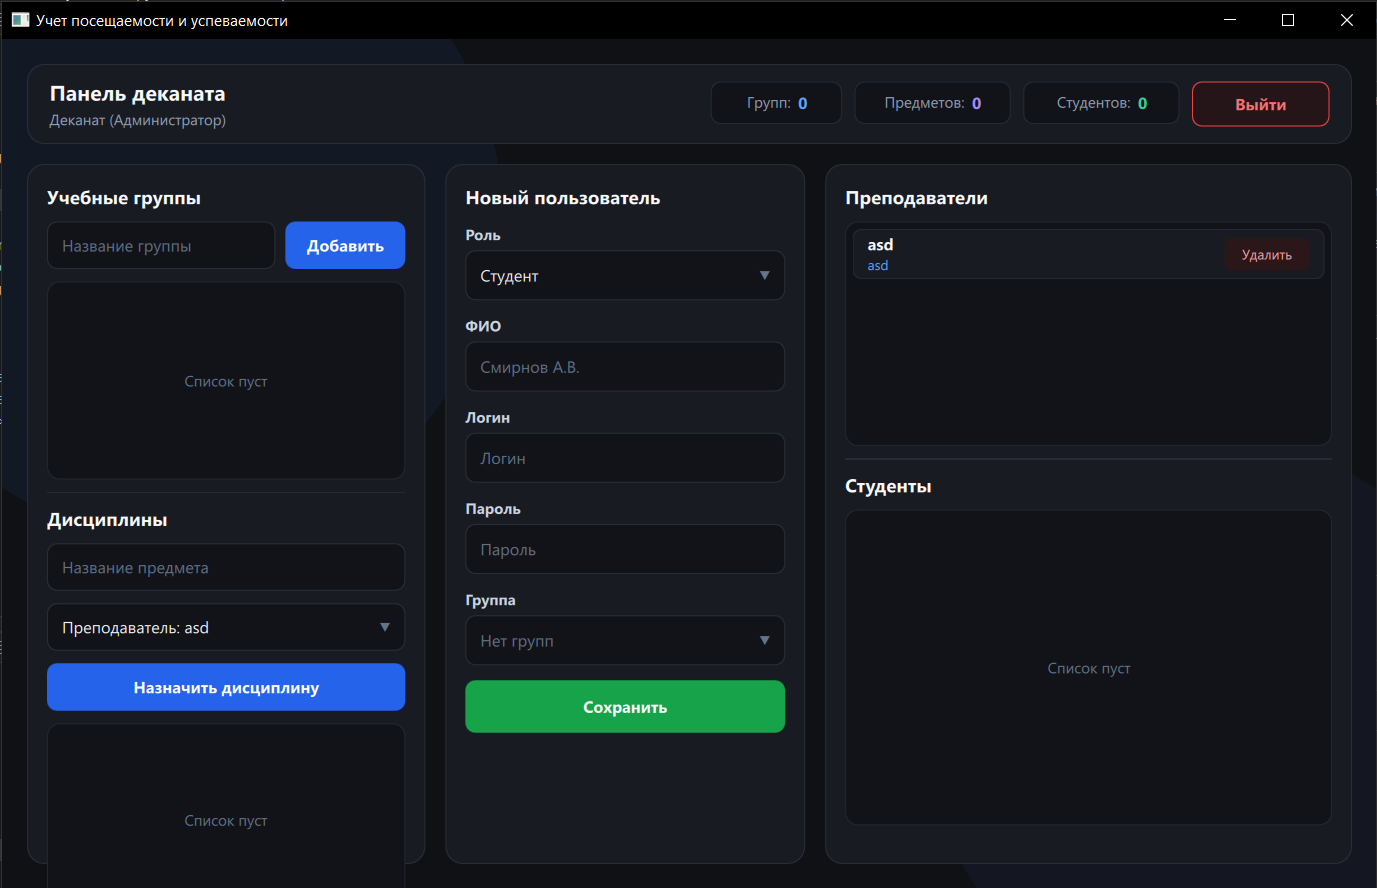
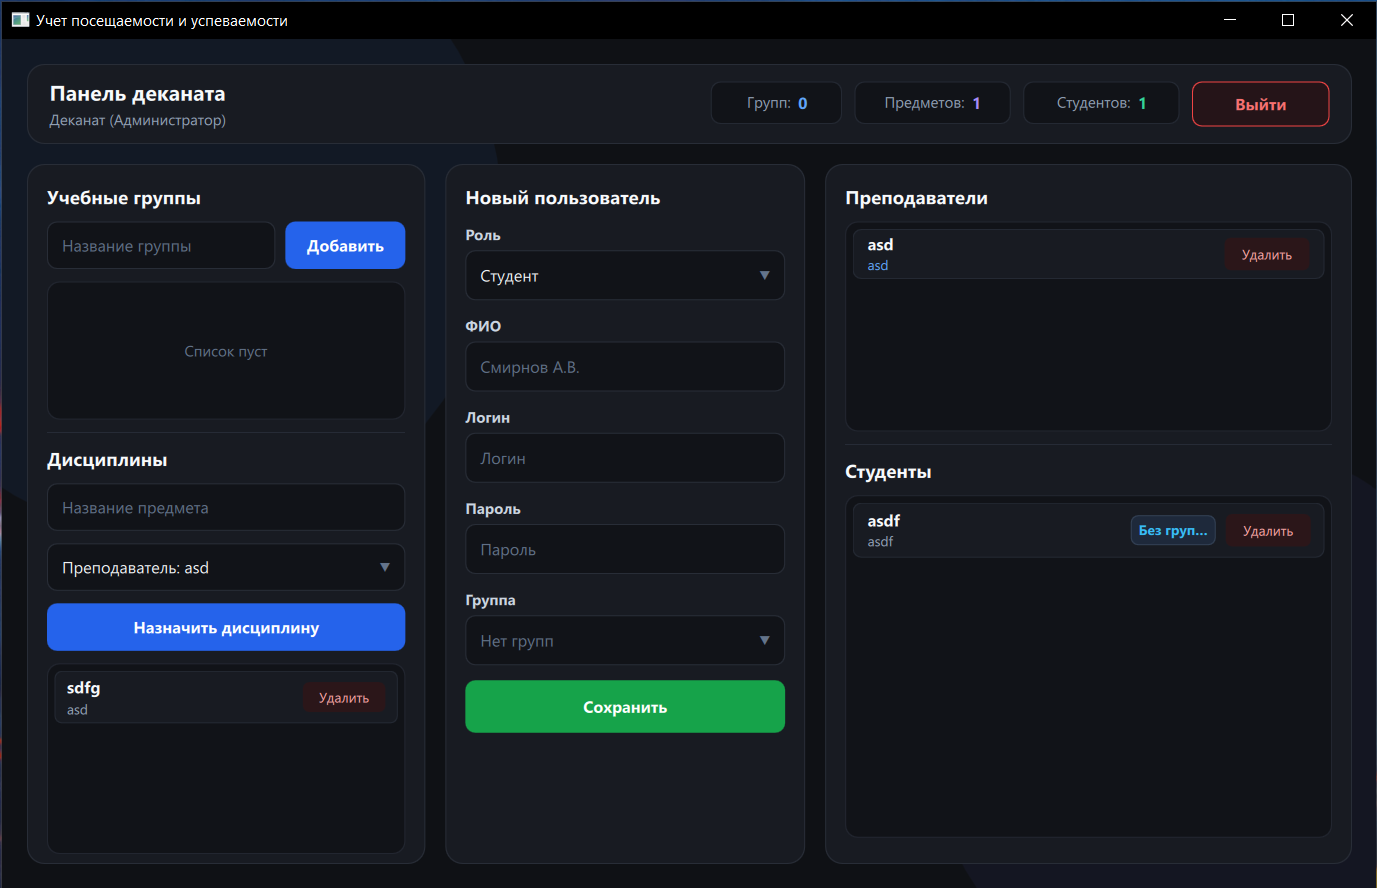
bugfix

diff --git a/TeacherDashboard.qml b/TeacherDashboard.qml
@@ -7,9 +7,13 @@ Rectangle {
 
     property int selectedRecordId: -1
     property string boundStudentName: "Не выбрано"
-    property string boundDate: Qt.formatDate(new Date(), "yyyy-MM-dd")
+    property string boundDate: Qt.formatDate(new Date(), "dd.MM.yyyy")
     property string boundAttendance: "Присутствовал"
     property string boundGrade: ""
+
+    property int calYear: new Date().getFullYear()
+    property int calMonth: new Date().getMonth()
+    property var monthNames: ["Январь", "Февраль", "Март", "Апрель", "Май", "Июнь", "Июль", "Август", "Сентябрь", "Октябрь", "Ноябрь", "Декабрь"]
 
     Rectangle {
         width: 520; height: 520; radius: 260
@@ -103,13 +107,19 @@ Rectangle {
                         color: "#111318"; radius: 8; border.color: "#242933"
 
                         Row {
-                            anchors.fill: parent; anchors.leftMargin: 14; anchors.rightMargin: 14; spacing: 8
-                            Text { text: "Студент"; color: "#94a3b8"; font.pixelSize: 12; font.bold: true; width: parent.width * 0.27; anchors.verticalCenter: parent.verticalCenter }
-                            Text { text: "Группа"; color: "#94a3b8"; font.pixelSize: 12; font.bold: true; width: parent.width * 0.13; anchors.verticalCenter: parent.verticalCenter }
-                            Text { text: "Дисциплина"; color: "#94a3b8"; font.pixelSize: 12; font.bold: true; width: parent.width * 0.23; anchors.verticalCenter: parent.verticalCenter }
-                            Text { text: "Дата"; color: "#94a3b8"; font.pixelSize: 12; font.bold: true; width: parent.width * 0.13; anchors.verticalCenter: parent.verticalCenter }
-                            Text { text: "Посещаемость"; color: "#94a3b8"; font.pixelSize: 12; font.bold: true; width: parent.width * 0.14; anchors.verticalCenter: parent.verticalCenter }
-                            Text { text: "Оценка"; color: "#94a3b8"; font.pixelSize: 12; font.bold: true; width: parent.width * 0.08; horizontalAlignment: Text.AlignHCenter; anchors.verticalCenter: parent.verticalCenter }
+                            id: headerRow
+                            anchors.fill: parent
+                            anchors.leftMargin: 12
+                            anchors.rightMargin: 12
+                            spacing: 6
+                            property real availW: width - 30
+
+                            Text { text: "Студент"; color: "#94a3b8"; font.pixelSize: 12; font.bold: true; width: headerRow.availW * 0.25; anchors.verticalCenter: parent.verticalCenter }
+                            Text { text: "Группа"; color: "#94a3b8"; font.pixelSize: 12; font.bold: true; width: headerRow.availW * 0.13; anchors.verticalCenter: parent.verticalCenter }
+                            Text { text: "Дисциплина"; color: "#94a3b8"; font.pixelSize: 12; font.bold: true; width: headerRow.availW * 0.22; anchors.verticalCenter: parent.verticalCenter }
+                            Text { text: "Дата"; color: "#94a3b8"; font.pixelSize: 12; font.bold: true; width: headerRow.availW * 0.14; anchors.verticalCenter: parent.verticalCenter }
+                            Text { text: "Статус"; color: "#94a3b8"; font.pixelSize: 12; font.bold: true; width: headerRow.availW * 0.15; anchors.verticalCenter: parent.verticalCenter }
+                            Text { text: "Оценка"; color: "#94a3b8"; font.pixelSize: 12; font.bold: true; width: headerRow.availW * 0.11; horizontalAlignment: Text.AlignHCenter; anchors.verticalCenter: parent.verticalCenter }
                         }
                     }
 
@@ -139,19 +149,24 @@ Rectangle {
                                 border.width: isSelected ? 1.5 : 1
 
                                 Row {
-                                    anchors.fill: parent; anchors.leftMargin: 14; anchors.rightMargin: 14; spacing: 8
+                                    id: itemRow
+                                    anchors.fill: parent
+                                    anchors.leftMargin: 12
+                                    anchors.rightMargin: 12
+                                    spacing: 6
+                                    property real availW: width - 30
 
                                     Text {
                                         text: model.student_name || ""
                                         color: "#f8fafc"; font.pixelSize: 13; font.bold: rowDelegate.isSelected
-                                        width: parent.width * 0.27; elide: Text.ElideRight
+                                        width: itemRow.availW * 0.25; elide: Text.ElideRight
                                         anchors.verticalCenter: parent.verticalCenter
                                     }
 
                                     Item {
-                                        width: parent.width * 0.13; height: parent.height
+                                        width: itemRow.availW * 0.13; height: parent.height
                                         Rectangle {
-                                            height: 24; width: Math.min(parent.width - 4, groupText.implicitWidth + 14); radius: 6
+                                            height: 24; width: Math.min(parent.width, groupText.implicitWidth + 12); radius: 6
                                             anchors.verticalCenter: parent.verticalCenter
                                             color: "#1e293b"; border.color: "#334155"
                                             Text { id: groupText; anchors.centerIn: parent; text: model.group_name || "—"; color: "#38bdf8"; font.pixelSize: 11; font.bold: true }
@@ -161,21 +176,21 @@ Rectangle {
                                     Text {
                                         text: model.subject_title || ""
                                         color: "#cbd5e1"; font.pixelSize: 12
-                                        width: parent.width * 0.23; elide: Text.ElideRight
+                                        width: itemRow.availW * 0.22; elide: Text.ElideRight
                                         anchors.verticalCenter: parent.verticalCenter
                                     }
 
                                     Text {
                                         text: model.lesson_date || ""
                                         color: "#94a3b8"; font.pixelSize: 12
-                                        width: parent.width * 0.13
+                                        width: itemRow.availW * 0.14
                                         anchors.verticalCenter: parent.verticalCenter
                                     }
 
                                     Item {
-                                        width: parent.width * 0.14; height: parent.height
+                                        width: itemRow.availW * 0.15; height: parent.height
                                         Rectangle {
-                                            height: 24; width: parent.width - 4; radius: 6
+                                            height: 24; width: parent.width; radius: 6
                                             anchors.verticalCenter: parent.verticalCenter
                                             color: model.attendance === "Присутствовал" ? "#1422c55e" : (model.attendance === "Прогул" ? "#14ef4444" : "#14eab308")
                                             border.color: model.attendance === "Присутствовал" ? "#22c55e" : (model.attendance === "Прогул" ? "#ef4444" : "#eab308")
@@ -188,7 +203,7 @@ Rectangle {
                                     }
 
                                     Item {
-                                        width: parent.width * 0.08; height: parent.height
+                                        width: itemRow.availW * 0.11; height: parent.height
                                         Rectangle {
                                             width: 28; height: 28; radius: 6; anchors.centerIn: parent
                                             property string g: model.grade || ""
@@ -317,20 +332,44 @@ Rectangle {
                         width: parent.width; spacing: 10
 
                         Column {
-                            width: (parent.width - 10) * 0.48; spacing: 4
-                            Text { text: "Дата"; color: "#cbd5e1"; font.pixelSize: 12; font.bold: true }
-                            TextField {
-                                id: dateField
-                                width: parent.width; height: 38
-                                text: boundDate; placeholderText: "ГГГГ-ММ-ДД"
-                                color: "#f8fafc"; placeholderTextColor: "#64748b"; font.pixelSize: 13
-                                leftPadding: 12; rightPadding: 12; selectByMouse: true
-                                background: Rectangle { color: "#111318"; radius: 8; border.color: dateField.activeFocus ? "#3b82f6" : "#282d37" }
+                            width: (parent.width - 10) * 0.50; spacing: 4
+                            Text { text: "Дата (дд.мм.гггг)"; color: "#cbd5e1"; font.pixelSize: 12; font.bold: true }
+
+                            Row {
+                                width: parent.width
+                                spacing: 6
+
+                                TextField {
+                                    id: dateField
+                                    width: parent.width - 42; height: 38
+                                    text: boundDate; placeholderText: "дд.мм.гггг"
+                                    color: "#f8fafc"; placeholderTextColor: "#64748b"; font.pixelSize: 13
+                                    leftPadding: 10; rightPadding: 10; selectByMouse: true
+                                    background: Rectangle { color: "#111318"; radius: 8; border.color: dateField.activeFocus ? "#3b82f6" : "#282d37" }
+                                }
+
+                                Button {
+                                    id: calBtn
+                                    width: 36; height: 38
+                                    hoverEnabled: true
+                                    text: "Календарь"
+                                    background: Rectangle {
+                                        radius: 8
+                                        color: calPopup.visible ? "#2563eb" : (calBtn.hovered ? "#1e293b" : "#111318")
+                                        border.color: calPopup.visible ? "#3b82f6" : "#282d37"
+                                    }
+                                    contentItem: Text {
+                                        text: "▼"
+                                        color: "#f8fafc"; font.pixelSize: 11; font.bold: true
+                                        horizontalAlignment: Text.AlignHCenter; verticalAlignment: Text.AlignVCenter
+                                    }
+                                    onClicked: calPopup.open()
+                                }
                             }
                         }
 
                         Column {
-                            width: (parent.width - 10) * 0.52; spacing: 4
+                            width: (parent.width - 10) * 0.50; spacing: 4
                             Text { text: "Посещаемость"; color: "#cbd5e1"; font.pixelSize: 12; font.bold: true }
 
                             ComboBox {
@@ -460,6 +499,145 @@ Rectangle {
                             selectedRecordId = -1;
                             boundStudentName = "Не выбрано";
                             gradeField.text = "";
+                        }
+                    }
+                }
+            }
+        }
+    }
+
+    Popup {
+        id: calPopup
+        width: 260
+        height: 280
+        modal: true
+        focus: true
+        anchors.centerIn: Overlay.overlay
+        padding: 12
+
+        background: Rectangle {
+            color: "#181b22"
+            radius: 12
+            border.color: "#3b82f6"
+            border.width: 1.5
+        }
+
+        Column {
+            anchors.fill: parent
+            spacing: 8
+
+            Row {
+                width: parent.width
+                height: 32
+
+                Button {
+                    id: prevMonthBtn
+                    width: 32; height: 32
+                    hoverEnabled: true
+                    text: "◀"
+                    background: Rectangle {
+                        radius: 6
+                        color: prevMonthBtn.hovered ? "#1e293b" : "#111318"
+                        border.color: "#282d37"
+                    }
+                    contentItem: Text {
+                        text: prevMonthBtn.text; color: "#f8fafc"; font.pixelSize: 12
+                        horizontalAlignment: Text.AlignHCenter; verticalAlignment: Text.AlignVCenter
+                    }
+                    onClicked: {
+                        if (root.calMonth === 0) {
+                            root.calMonth = 11;
+                            root.calYear -= 1;
+                        } else {
+                            root.calMonth -= 1;
+                        }
+                    }
+                }
+
+                Text {
+                    width: parent.width - 64
+                    height: 32
+                    text: root.monthNames[root.calMonth] + " " + root.calYear
+                    color: "#f8fafc"
+                    font.pixelSize: 14
+                    font.bold: true
+                    horizontalAlignment: Text.AlignHCenter
+                    verticalAlignment: Text.AlignVCenter
+                }
+
+                Button {
+                    id: nextMonthBtn
+                    width: 32; height: 32
+                    hoverEnabled: true
+                    text: "▶"
+                    background: Rectangle {
+                        radius: 6
+                        color: nextMonthBtn.hovered ? "#1e293b" : "#111318"
+                        border.color: "#282d37"
+                    }
+                    contentItem: Text {
+                        text: nextMonthBtn.text; color: "#f8fafc"; font.pixelSize: 12
+                        horizontalAlignment: Text.AlignHCenter; verticalAlignment: Text.AlignVCenter
+                    }
+                    onClicked: {
+                        if (root.calMonth === 11) {
+                            root.calMonth = 0;
+                            root.calYear += 1;
+                        } else {
+                            root.calMonth += 1;
+                        }
+                    }
+                }
+            }
+
+            DayOfWeekRow {
+                locale: Qt.locale("ru_RU")
+                width: parent.width
+                height: 22
+                delegate: Text {
+                    text: model.shortName
+                    color: "#94a3b8"
+                    font.pixelSize: 11
+                    font.bold: true
+                    horizontalAlignment: Text.AlignHCenter
+                    verticalAlignment: Text.AlignVCenter
+                }
+            }
+
+            MonthGrid {
+                id: monthGrid
+                width: parent.width
+                height: parent.height - 68
+                month: root.calMonth
+                year: root.calYear
+                locale: Qt.locale("ru_RU")
+
+                delegate: Rectangle {
+                    id: dayRect
+                    radius: 6
+                    property string formattedDay: Qt.formatDate(model.date, "dd.MM.yyyy")
+                    property bool isSelectedDate: dateField.text === formattedDay
+                    color: isSelectedDate ? "#2563eb" : (dayMouse.containsMouse ? "#1e293b" : "transparent")
+                    opacity: model.month === monthGrid.month ? 1.0 : 0.3
+
+                    Text {
+                        anchors.centerIn: parent
+                        text: model.day
+                        color: "#f8fafc"
+                        font.pixelSize: 12
+                        font.bold: dayRect.isSelectedDate || model.today
+                    }
+
+                    MouseArea {
+                        id: dayMouse
+                        anchors.fill: parent
+                        hoverEnabled: true
+                        cursorShape: Qt.PointingHandCursor
+                        onClicked: {
+                            var d = Qt.formatDate(model.date, "dd.MM.yyyy");
+                            root.boundDate = d;
+                            dateField.text = d;
+                            calPopup.close();
                         }
                     }
                 }

diff --git a/AdminDashboard.qml b/AdminDashboard.qml
@@ -109,6 +109,7 @@ Rectangle {
                 color: "#181b22"; radius: 14; border.color: "#282d37"
 
                 Column {
+                    id: leftCol
                     anchors.fill: parent; anchors.margins: 16; spacing: 10
 
                     Text { text: "Учебные группы"; color: "#f8fafc"; font.pixelSize: 15; font.bold: true }
@@ -152,7 +153,9 @@ Rectangle {
                     }
 
                     Rectangle {
-                        width: parent.width; height: parent.height * 0.30
+                        id: groupsBox
+                        width: parent.width
+                        height: Math.max(90, (leftCol.height - 265) * 0.42)
                         color: "#111318"; radius: 10; border.color: "#222630"
 
                         ListView {
@@ -284,7 +287,8 @@ Rectangle {
                     }
 
                     Rectangle {
-                        width: parent.width; height: parent.height - 375
+                        width: parent.width
+                        height: Math.max(90, leftCol.height - groupsBox.height - 265)
                         color: "#111318"; radius: 10; border.color: "#222630"
 
                         ListView {
@@ -500,12 +504,14 @@ Rectangle {
                 color: "#181b22"; radius: 14; border.color: "#282d37"
 
                 Column {
+                    id: rightCol
                     anchors.fill: parent; anchors.margins: 16; spacing: 10
 
                     Text { text: "Преподаватели"; color: "#f8fafc"; font.pixelSize: 15; font.bold: true }
 
                     Rectangle {
-                        width: parent.width; height: parent.height * 0.34
+                        id: teachersBox
+                        width: parent.width; height: (rightCol.height - 86) * 0.38
                         color: "#111318"; radius: 10; border.color: "#222630"
 
                         ListView {
@@ -561,7 +567,7 @@ Rectangle {
 
                     Rectangle {
                         width: parent.width
-                        height: parent.height - (parent.height * 0.34) - 96
+                        height: rightCol.height - teachersBox.height - 86
                         color: "#111318"; radius: 10; border.color: "#222630"
 
                         ListView {
